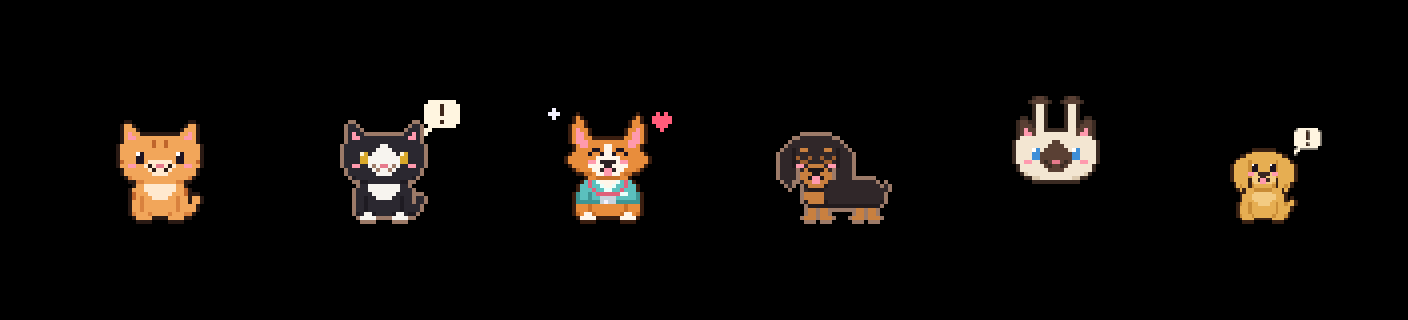
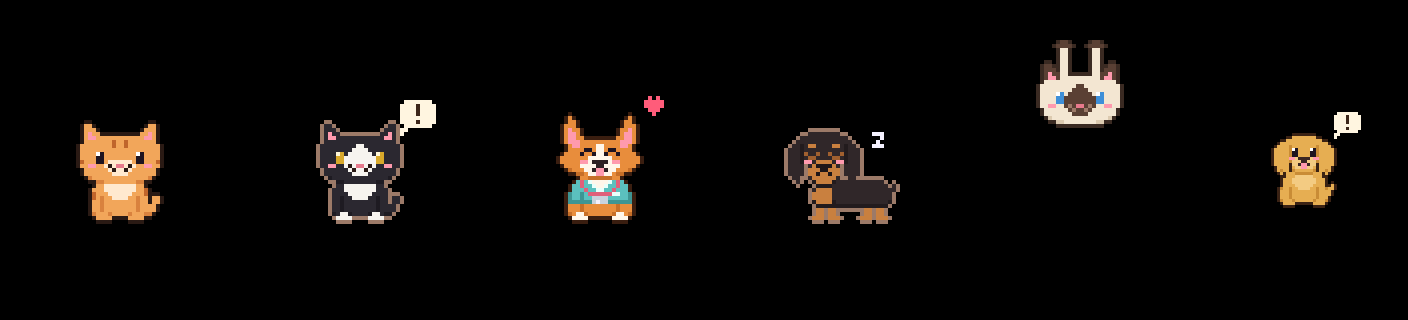
fix(pets): Gallery review fix: sleeping dogs now tuck their panting tongue away and show a closed "w" mouth, so they read as asleep. Includes 1 new test (255 green, zero warnings), docs, and a regenerated curated petview.png.

diff --git a/Tests/NotchDeckCoreTests/PetsAnimationTests.swift b/Tests/NotchDeckCoreTests/PetsAnimationTests.swift
@@ -73,6 +73,24 @@ final class PetAnimationTests: XCTestCase {
         }
     }
 
+    func testSleepingDogsCloseTheirMouthButKeepTheirCheeks() {
+        let blush: (PetCanvas) -> Int = { $0.pixels.filter { $0 == .blush }.count }
+        for breed in PetBreed.allCases {
+            let awake = blush(PetComposer.sitting(breed))
+            let happy = PetComposer.clip(.celebrate, for: breed).frames.map { blush($0.canvas) }
+            XCTAssertTrue(happy.allSatisfy { $0 == awake }, "celebrating keeps the tongue: \(breed)")
+            for frame in PetComposer.clip(.sleep, for: breed).frames {
+                let asleep = blush(frame.canvas)
+                if breed.species == .dog {
+                    XCTAssertLessThan(asleep, awake, "the tongue is tucked in: \(breed)")
+                    XCTAssertGreaterThanOrEqual(asleep, 4, "cheeks stay rosy: \(breed)")
+                } else {
+                    XCTAssertEqual(asleep, awake, "cats have no tongue to tuck in: \(breed)")
+                }
+            }
+        }
+    }
+
     func testCelebrationHopsShowsAHeartAndLandsBackOnTheBaseline() throws {
         for breed in PetBreed.allCases {
             let clip = PetComposer.clip(.celebrate, for: breed, outfit: .whiteCoat, accessories: [.graduationCap])

diff --git a/Sources/NotchDeckCore/Pets/Art/EffectArt.swift b/Sources/NotchDeckCore/Pets/Art/EffectArt.swift
@@ -75,6 +75,10 @@ enum EffectArt {
     /// the eye-colored pixels on the face's `eyeRow`, so contributors only
     /// draw the open face. Cleared eye pixels become transparent, letting the
     /// head's fur (and any mask zone) show through.
+    ///
+    /// Asleep, the mouth closes too: a panting tongue (blush pixels below the
+    /// cheek row, `eyeRow + 3`) is cleared, so the muzzle shows through and
+    /// the nose-colored mouth corners read as a closed "w".
     static func face(_ face: SpriteGrid, eyeRow: Int, eyes: PetPose.Eyes) -> SpriteGrid {
         let overlay: SpriteGrid
         switch eyes {
@@ -84,6 +88,11 @@ enum EffectArt {
         case .happy: overlay = eyesHappy
         }
         var result = face
+        if eyes == .sleepy {
+            for y in min(face.height, eyeRow + 4)..<face.height {
+                for x in 0..<face.width where face[x, y] == .role(.blush) { result[x, y] = .empty }
+            }
+        }
         let isEye: (SpriteCell) -> Bool = { $0 == .role(.eye) || $0 == .role(.eyeLight) }
         // Left edges of each 2-wide eye on the eye row.
         let lefts = (0..<face.width).filter { x in

diff --git a/docs/studynotch/pets.md b/docs/studynotch/pets.md
@@ -151,13 +151,15 @@ Each frame is the sitting composition in a `PetPose`, so every breed and costume
 
 Eye states live in `EffectArt` as 4x3 grids centered on the 2x3 open eye.
 The composer finds the open eyes on the face's eye row, clears them so the head's fur shows through, and stamps the new state, so a new face only needs its open-eyed version.
+Sleepy eyes also close the mouth: blush pixels below the cheek row (the eye row + 3) are cleared, so a dog's panting tongue tucks away and its nose-colored mouth corners read as a closed "w".
+Draw a tongue with the blush role below the cheek row and it will hide itself during sleep.
 
 | Animation | Frames |
 | --- | --- |
 | idle | Head nods down 1 px and back, 1.1 s + 0.9 s, so the pet breathes slowly |
 | blink | One closed-eye frame, 140 ms, played now and then over idle |
 | sit | The plain sitting frame, held |
-| sleep | Sleepy eyes, head sinking 1-2 px, a small "z" by the ear and a larger one drifting up |
+| sleep | Sleepy eyes, a closed mouth, head sinking 1-2 px, a small "z" by the ear and a larger one drifting up |
 | peekIn / peekOut | The pet dangles from the notch by its front paws: the head lowers into view from beyond the top edge, bounces 1 px, and rests with its chin on row 20; peekOut is the same frames reversed |
 | alert | Two hops (2 px, then 1 px) and a hold; every frame has a `bubbleAnchor` at the top-right of the head for the app's speech bubble |
 | celebrate | Happy eyes, a 3 px hop, a heart floating up beside the head, and sparkles |
